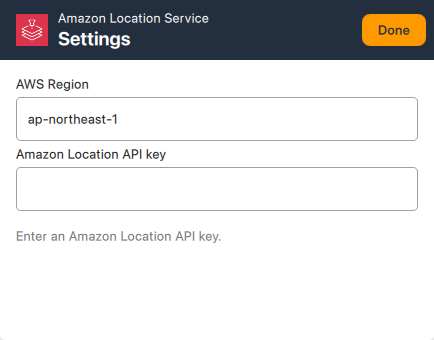
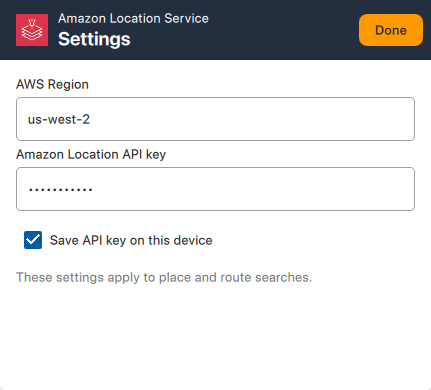
Remember the Amazon Location API key on trusted devices

diff --git a/main.qml b/main.qml
@@ -3,6 +3,7 @@ import QtQuick.Controls
 import QtQuick.Controls.Material
 import QtQuick.Layouts
 import QtQml.Models
+import QtCore
 import org.qgis
 import org.qfield.core
 import org.qfield.gui
@@ -89,7 +90,15 @@ Item {
         return ""
     }
 
+    Settings {
+        id: connectionSettings
+        category: "plugins/amazon-location-service"
+    }
+
     Component.onCompleted: {
+        regionField.text = connectionSettings.value("region", regionField.text)
+        keyField.text = connectionSettings.value("apiKey", "")
+        rememberKey.checked = keyField.text.length > 0
         iface.addItemToPluginsToolbar(searchGroup)
         handler.registerHandler(handlerName, pickPoint, QfMapCanvasPointHandler.Priority.High)
     }
@@ -1444,7 +1453,12 @@ Item {
 
     RoutePopup {
         id: settingsPopup
-        height: Math.min(340, parent.height - 16)
+        height: Math.min(390, parent.height - 16)
+        onAboutToHide: {
+            connectionSettings.setValue("region", plugin.region)
+            connectionSettings.setValue("apiKey", rememberKey.checked ? plugin.apiKey : "")
+            connectionSettings.sync()
+        }
         ColumnLayout {
             anchors.fill: parent
             spacing: 0
@@ -1472,11 +1486,14 @@ Item {
                     TextField {
                         id: keyField
                         Layout.fillWidth: true
-                        Layout.bottomMargin: 12
                         Accessible.name: keyLabel.text
                         echoMode: TextInput.Password
                         readOnly: !!plugin.pending
                         onTextEdited: plugin.message = ""
+                    }
+                    CheckBox {
+                        id: rememberKey
+                        text: qsTranslate("AmazonLocationService", "Save API key on this device")
                     }
                     Label {
                         Layout.fillWidth: true

diff --git a/main_ja.ts b/main_ja.ts
@@ -379,6 +379,10 @@
         <translation>Amazon Location の API キー</translation>
     </message>
     <message>
+        <source>Save API key on this device</source>
+        <translation>この端末にAPIキーを保存</translation>
+    </message>
+    <message>
         <source>These settings apply to place and route searches.</source>
         <translation>この設定は地点検索と経路検索で共通です。</translation>
     </message>

diff --git a/README.md b/README.md
@@ -54,6 +54,8 @@ Tap the Amazon Location Service button at the upper right of the map. Choose **P
 
 In either search screen, tap **Settings**, enter the **AWS Region** where you created your key and the **Amazon Location API key**, then tap **Done**. Both searches use these settings.
 
+QField remembers the Region on this device. To reuse the key after restarting QField, select **Save API key on this device** before tapping **Done**. This stores the key unencrypted in QField’s local settings. To forget a saved key, uncheck the box and tap **Done**. You can still use the key for the current session.
+
 <img src="img/route-connection-settings.png" alt="Settings dialog with fields for the AWS Region and Amazon Location API key" width="360">
 
 ### Find a place and show it on the map
@@ -127,7 +129,6 @@ A card at the bottom of the map shows the estimated travel time and total distan
 - Adding, reordering, or removing stops clears a displayed route. Changing the order through optimization does the same. Search again to display the route for the new order.
 - Visit order optimization cannot be used when the perimeter of the bounding box around all stops exceeds 500 km. Reduce the stops or reorder them manually and search for a route.
 - Opening a different project clears the place marker, stops, and route.
-- The plugin keeps the API key in memory for the current session. Enter it again after restarting QField.
 
 ## Troubleshooting
 
